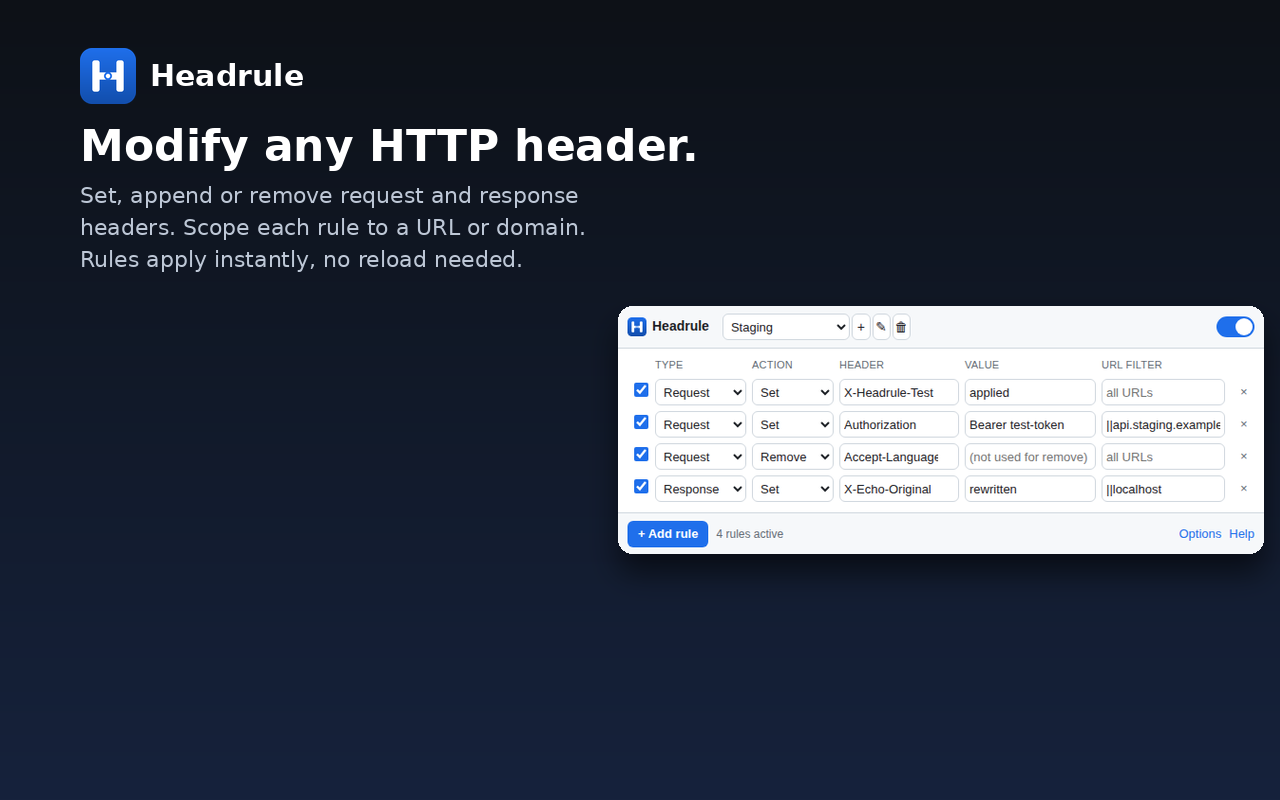
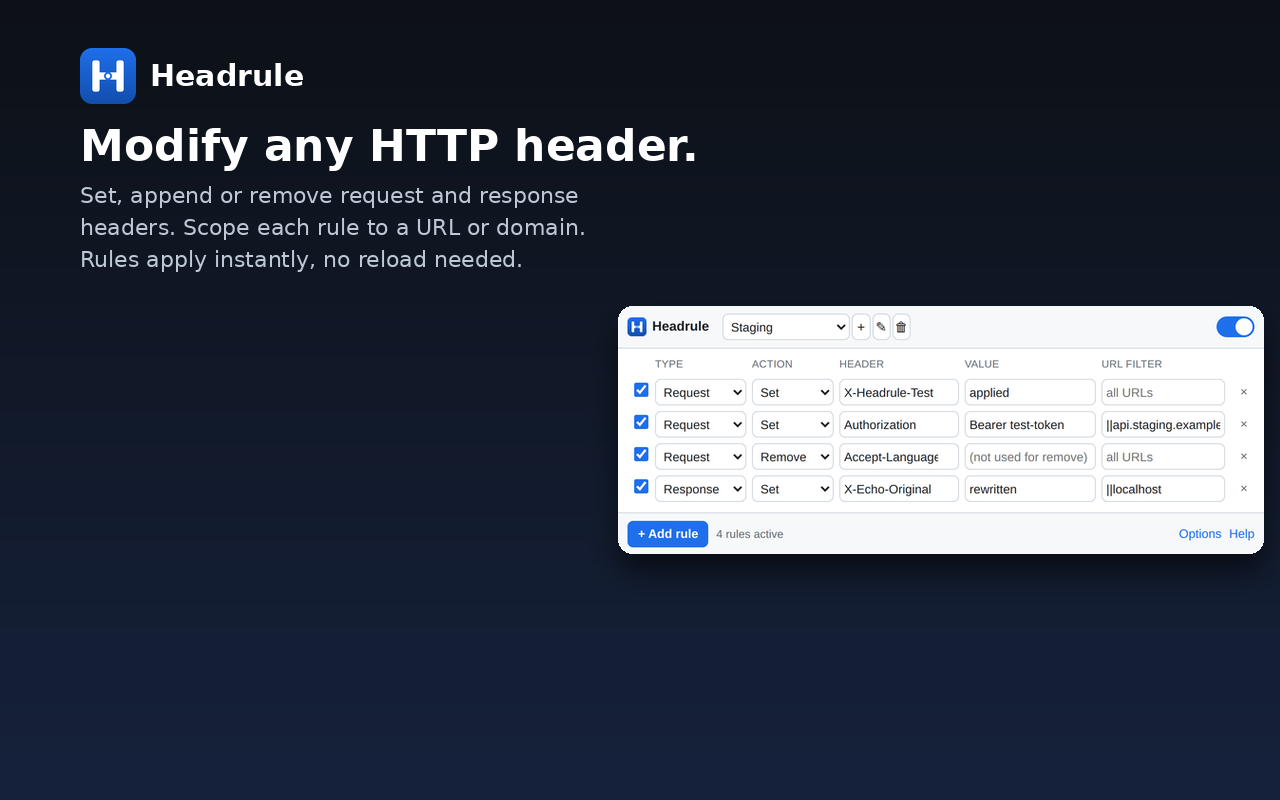
Sharpen landing page hero screenshot with browser-toolbar framing
Claude-Session: https://claude.ai/code/session_01VswDcN8SeCrpgw1w2LjqJf

diff --git a/site/index.html b/site/index.html
@@ -104,7 +104,7 @@
         <a class="cta secondary" href="#pricing">Pro is $9, once</a>
         <p class="badges">Manifest V3 · Built on declarativeNetRequest · Works with Chrome, Edge, Brave and Arc<br />The Chrome Web Store listing is in review. Until it is live you can install Headrule from the <a href="https://github.com/yemoyang9-a11y/headrule" target="_blank" rel="noopener">GitHub repository</a>.</p>
       </div>
-      <img class="shot" src="screenshot-popup.png" alt="Headrule popup showing request and response header rules" width="680" height="262" />
+      <img class="shot" src="screenshot-popup.png" alt="Headrule popup showing request and response header rules" width="1360" height="608" />
     </section>
 
     <section id="features">

diff --git a/scripts/make_hero_shot.py b/scripts/make_hero_shot.py
@@ -1,0 +1,96 @@
+"""Compose the landing-page hero screenshot (site/screenshot-popup.png).
+
+Wraps the raw popup capture in a small fake browser toolbar (address pill +
+extension icon row) so it reads as a real product shot instead of a bare
+pasted screenshot, and renders it from the hi-res raw-popup.png captured at
+SHOT_SCALE in test/smoke.mjs so it stays crisp on retina displays.
+"""
+from PIL import Image, ImageDraw, ImageFont, ImageFilter
+import os
+
+ROOT = os.path.dirname(os.path.dirname(os.path.abspath(__file__)))
+STORE = os.path.join(ROOT, "store")
+SITE = os.path.join(ROOT, "site")
+FONT_R = "/usr/share/fonts/truetype/dejavu/DejaVuSans.ttf"
+
+SHOT_SCALE = 3          # must match test/smoke.mjs deviceScaleFactor
+OUT_SCALE = 2           # final export density (2x is enough for retina)
+LOGICAL_W = 680
+LOGICAL_CONTENT_H = 262  # same popup crop height used by make_screenshots.py
+TOOLBAR_H = 42           # logical px
+
+
+def rounded(draw, box, radius, fill):
+    draw.rounded_rectangle(box, radius=radius, fill=fill)
+
+
+def lock_icon(draw, cx, cy, s, color):
+    """Tiny padlock glyph drawn from primitives (no emoji font needed)."""
+    body = (cx - s, cy - s * 0.2, cx + s, cy + s * 1.1)
+    draw.rounded_rectangle(body, radius=s * 0.25, fill=color)
+    draw.arc((cx - s * 0.7, cy - s * 1.6, cx + s * 0.7, cy - s * 0.1), 180, 360, fill=color, width=max(1, int(s * 0.35)))
+
+
+def build():
+    raw = Image.open(os.path.join(STORE, "raw-popup.png")).convert("RGB")
+    content = raw.crop((0, 0, LOGICAL_W * SHOT_SCALE, min(raw.height, LOGICAL_CONTENT_H * SHOT_SCALE)))
+
+    s = SHOT_SCALE
+    canvas_w = content.width
+    toolbar_h = TOOLBAR_H * s
+    canvas_h = toolbar_h + content.height
+    canvas = Image.new("RGB", (canvas_w, canvas_h), "#ffffff")
+    d = ImageDraw.Draw(canvas)
+
+    # Toolbar background + hairline separator.
+    d.rectangle((0, 0, canvas_w, toolbar_h), fill=(246, 247, 249))
+    d.line((0, toolbar_h - 1, canvas_w, toolbar_h - 1), fill=(222, 225, 230), width=max(1, s // 3))
+
+    # Fake address pill on the left, roughly matching a real Chrome toolbar.
+    pill_pad = 16 * s
+    pill_h = 24 * s
+    pill_top = (toolbar_h - pill_h) // 2
+    pill_right = canvas_w - 132 * s
+    rounded(d, (pill_pad, pill_top, pill_right, pill_top + pill_h), radius=pill_h // 2, fill=(233, 236, 239))
+    lock_icon(d, pill_pad + 20 * s, toolbar_h // 2, 3.4 * s, (120, 128, 138))
+    font_addr = ImageFont.truetype(FONT_R, int(11 * s))
+    d.text((pill_pad + 34 * s, toolbar_h // 2 - int(6.5 * s)), "app.example.com", font=font_addr, fill=(90, 98, 108))
+
+    # A couple of neutral "other extension" icon slots, then Headrule active.
+    icon = 22 * s
+    gap = 14 * s
+    x = canvas_w - pill_pad - icon
+    for _ in range(2):
+        rounded(d, (x, toolbar_h // 2 - icon // 2, x + icon, toolbar_h // 2 + icon // 2), radius=6 * s, fill=(223, 226, 230))
+        x -= icon + gap
+
+    # Headrule icon, highlighted as the "active / just clicked" one, with a
+    # caret pointing down into the popup to sell the dropdown illusion.
+    hi_pad = 6 * s
+    hi_box = (x - hi_pad, toolbar_h // 2 - icon // 2 - hi_pad, x + icon + hi_pad, toolbar_h // 2 + icon // 2 + hi_pad)
+    rounded(d, hi_box, radius=8 * s, fill=(224, 236, 253))
+    logo_path = os.path.join(STORE, "icon-512.png")
+    logo = Image.open(logo_path).convert("RGBA").resize((icon, icon), Image.LANCZOS)
+    canvas.paste(logo, (x, toolbar_h // 2 - icon // 2), logo)
+
+    # The actual popup UI, unmodified, directly under the toolbar.
+    canvas.paste(content, (0, toolbar_h))
+
+    # Small notch under the active icon, drawn on top of the popup's top
+    # edge -- the same visual trick real browsers use to connect an open
+    # popup back to the toolbar icon that spawned it.
+    caret_cx = x + icon // 2
+    caret_y = toolbar_h - 1
+    caret_r = 6 * s
+    d.polygon([(caret_cx - caret_r, caret_y), (caret_cx + caret_r, caret_y), (caret_cx, caret_y + caret_r)], fill=(224, 236, 253))
+
+    # A hairline border around the whole thing reads better once downsized.
+    ImageDraw.Draw(canvas).rectangle((0, 0, canvas_w - 1, canvas_h - 1), outline=(215, 218, 222), width=max(1, s // 3))
+
+    out = canvas.resize((canvas_w * OUT_SCALE // s, canvas_h * OUT_SCALE // s), Image.LANCZOS)
+    out_path = os.path.join(SITE, "screenshot-popup.png")
+    out.save(out_path, optimize=True)
+    print(f"wrote {out_path} ({out.width}x{out.height})")
+
+
+build()

diff --git a/scripts/make_screenshots.py b/scripts/make_screenshots.py
@@ -9,6 +9,24 @@ BG_TOP, BG_BOT = (13, 17, 23), (22, 34, 60)
 FONT_B = "/usr/share/fonts/truetype/dejavu/DejaVuSans-Bold.ttf"
 FONT_R = "/usr/share/fonts/truetype/dejavu/DejaVuSans.ttf"
 
+# test/smoke.mjs captures raw-*.png at this device pixel ratio (SHOT_SCALE)
+# so screenshots stay crisp on retina displays. Crop thresholds below are
+# written in logical (1x) pixels, then multiplied by RAW_SCALE and the
+# cropped raw image is downsampled back to logical size with LANCZOS -- this
+# keeps every layout number in this file unchanged while getting a sharper,
+# supersampled result than capturing at 1x directly.
+RAW_SCALE = 3
+
+
+def load_raw_logical(name, crop_box):
+    """Open a hi-res raw capture, crop with logical-pixel coords, then
+    downsample by RAW_SCALE to the original logical size for antialiasing."""
+    img = Image.open(os.path.join(STORE, name)).convert("RGB")
+    x0, y0, x1, y1 = crop_box
+    box = (x0 * RAW_SCALE, y0 * RAW_SCALE, min(x1, img.width // RAW_SCALE) * RAW_SCALE, min(y1, img.height // RAW_SCALE) * RAW_SCALE)
+    img = img.crop(box)
+    return img.resize((img.width // RAW_SCALE, img.height // RAW_SCALE), Image.LANCZOS)
+
 
 def background():
     img = Image.new("RGB", (W, H), BG_TOP)
@@ -53,8 +71,7 @@ def shot_popup():
     img = background()
     d = ImageDraw.Draw(img)
     text_block(d, 80, 120, "Modify any HTTP header.", "Set, append or remove request and response\nheaders. Scope each rule to a URL or domain.\nRules apply instantly, no reload needed.")
-    raw = Image.open(os.path.join(STORE, "raw-popup.png")).convert("RGB")
-    raw = raw.crop((0, 0, raw.width, min(raw.height, 262)))
+    raw = load_raw_logical("raw-popup.png", (0, 0, 680, 262))
     scale = 0.95
     raw = raw.resize((int(raw.width * scale), int(raw.height * scale)), Image.LANCZOS)
     card = shadowed(raw)
@@ -92,8 +109,7 @@ def shot_options():
     img = background()
     d = ImageDraw.Draw(img)
     text_block(d, 80, 120, "Pro: profiles, import,\nsync. One payment.", "Switch between staging, production and client\nprofiles. Import your ModHeader export in one\nclick. Regex URL filters. No subscription.", title_size=40)
-    raw = Image.open(os.path.join(STORE, "raw-options.png")).convert("RGB")
-    raw = raw.crop((80, 0, raw.width - 80, min(raw.height, 600)))
+    raw = load_raw_logical("raw-options.png", (80, 0, 900 - 80, 600))
     scale = 0.78
     raw = raw.resize((int(raw.width * scale), int(raw.height * scale)), Image.LANCZOS)
     card = shadowed(raw)
